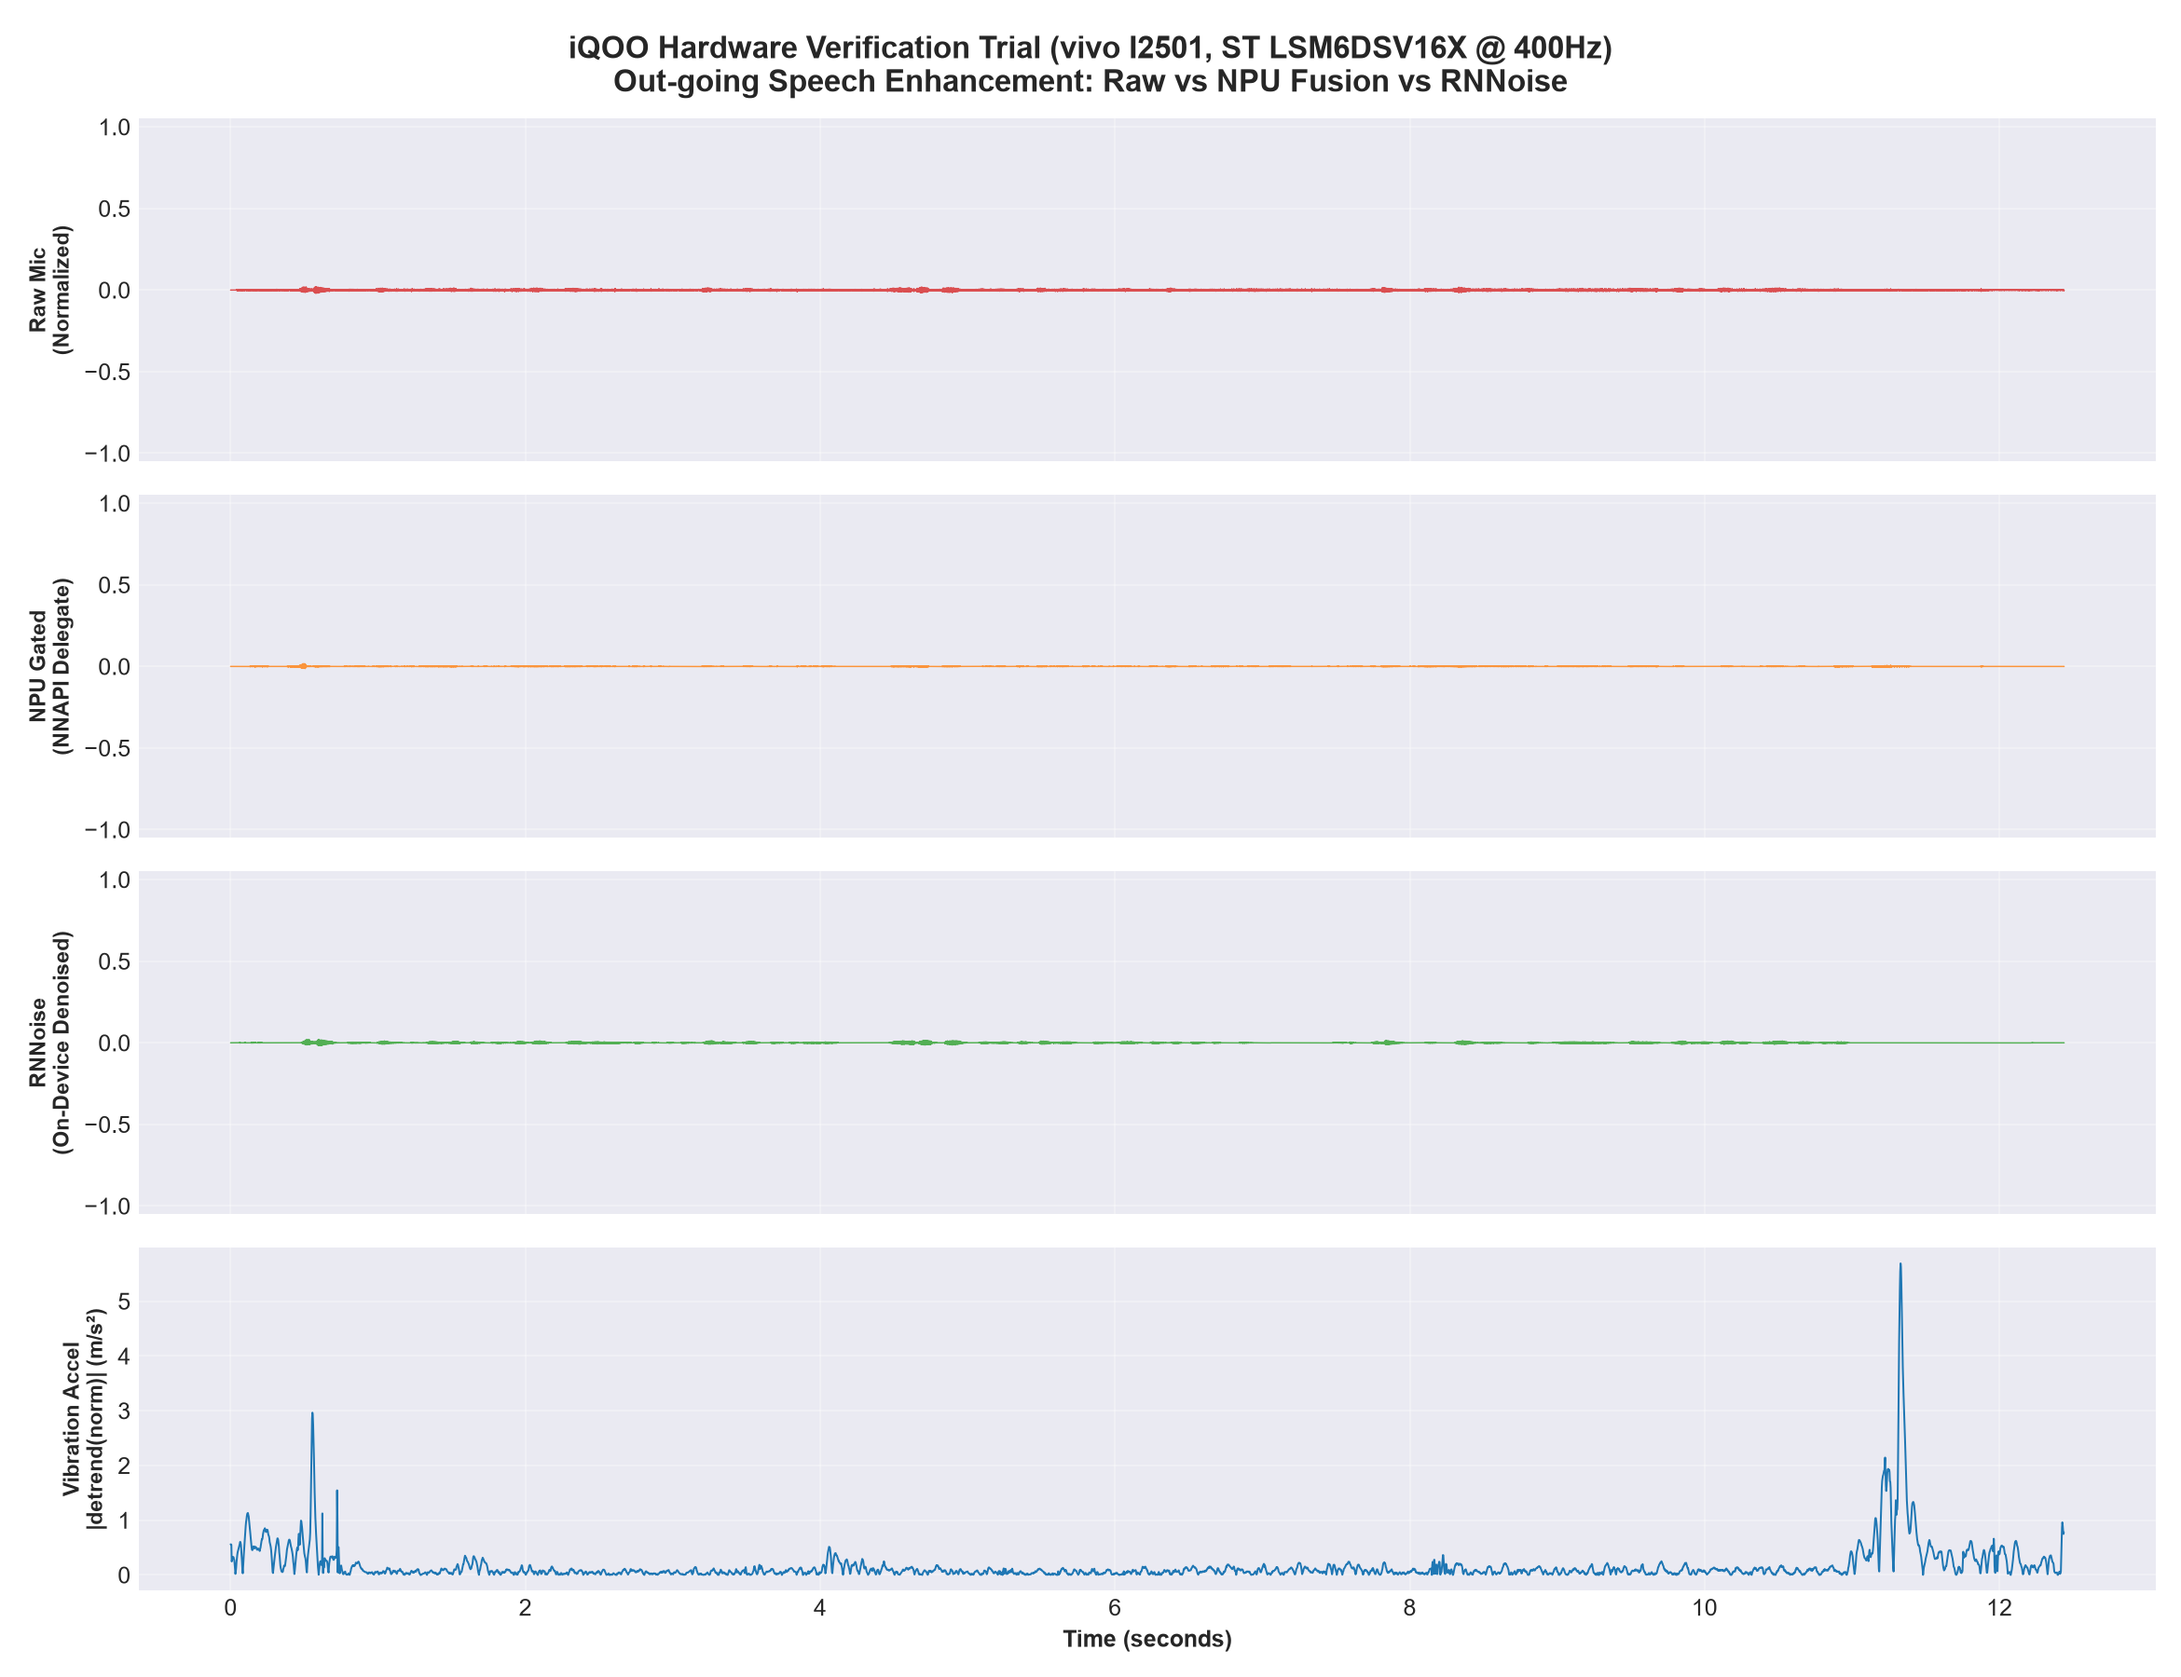
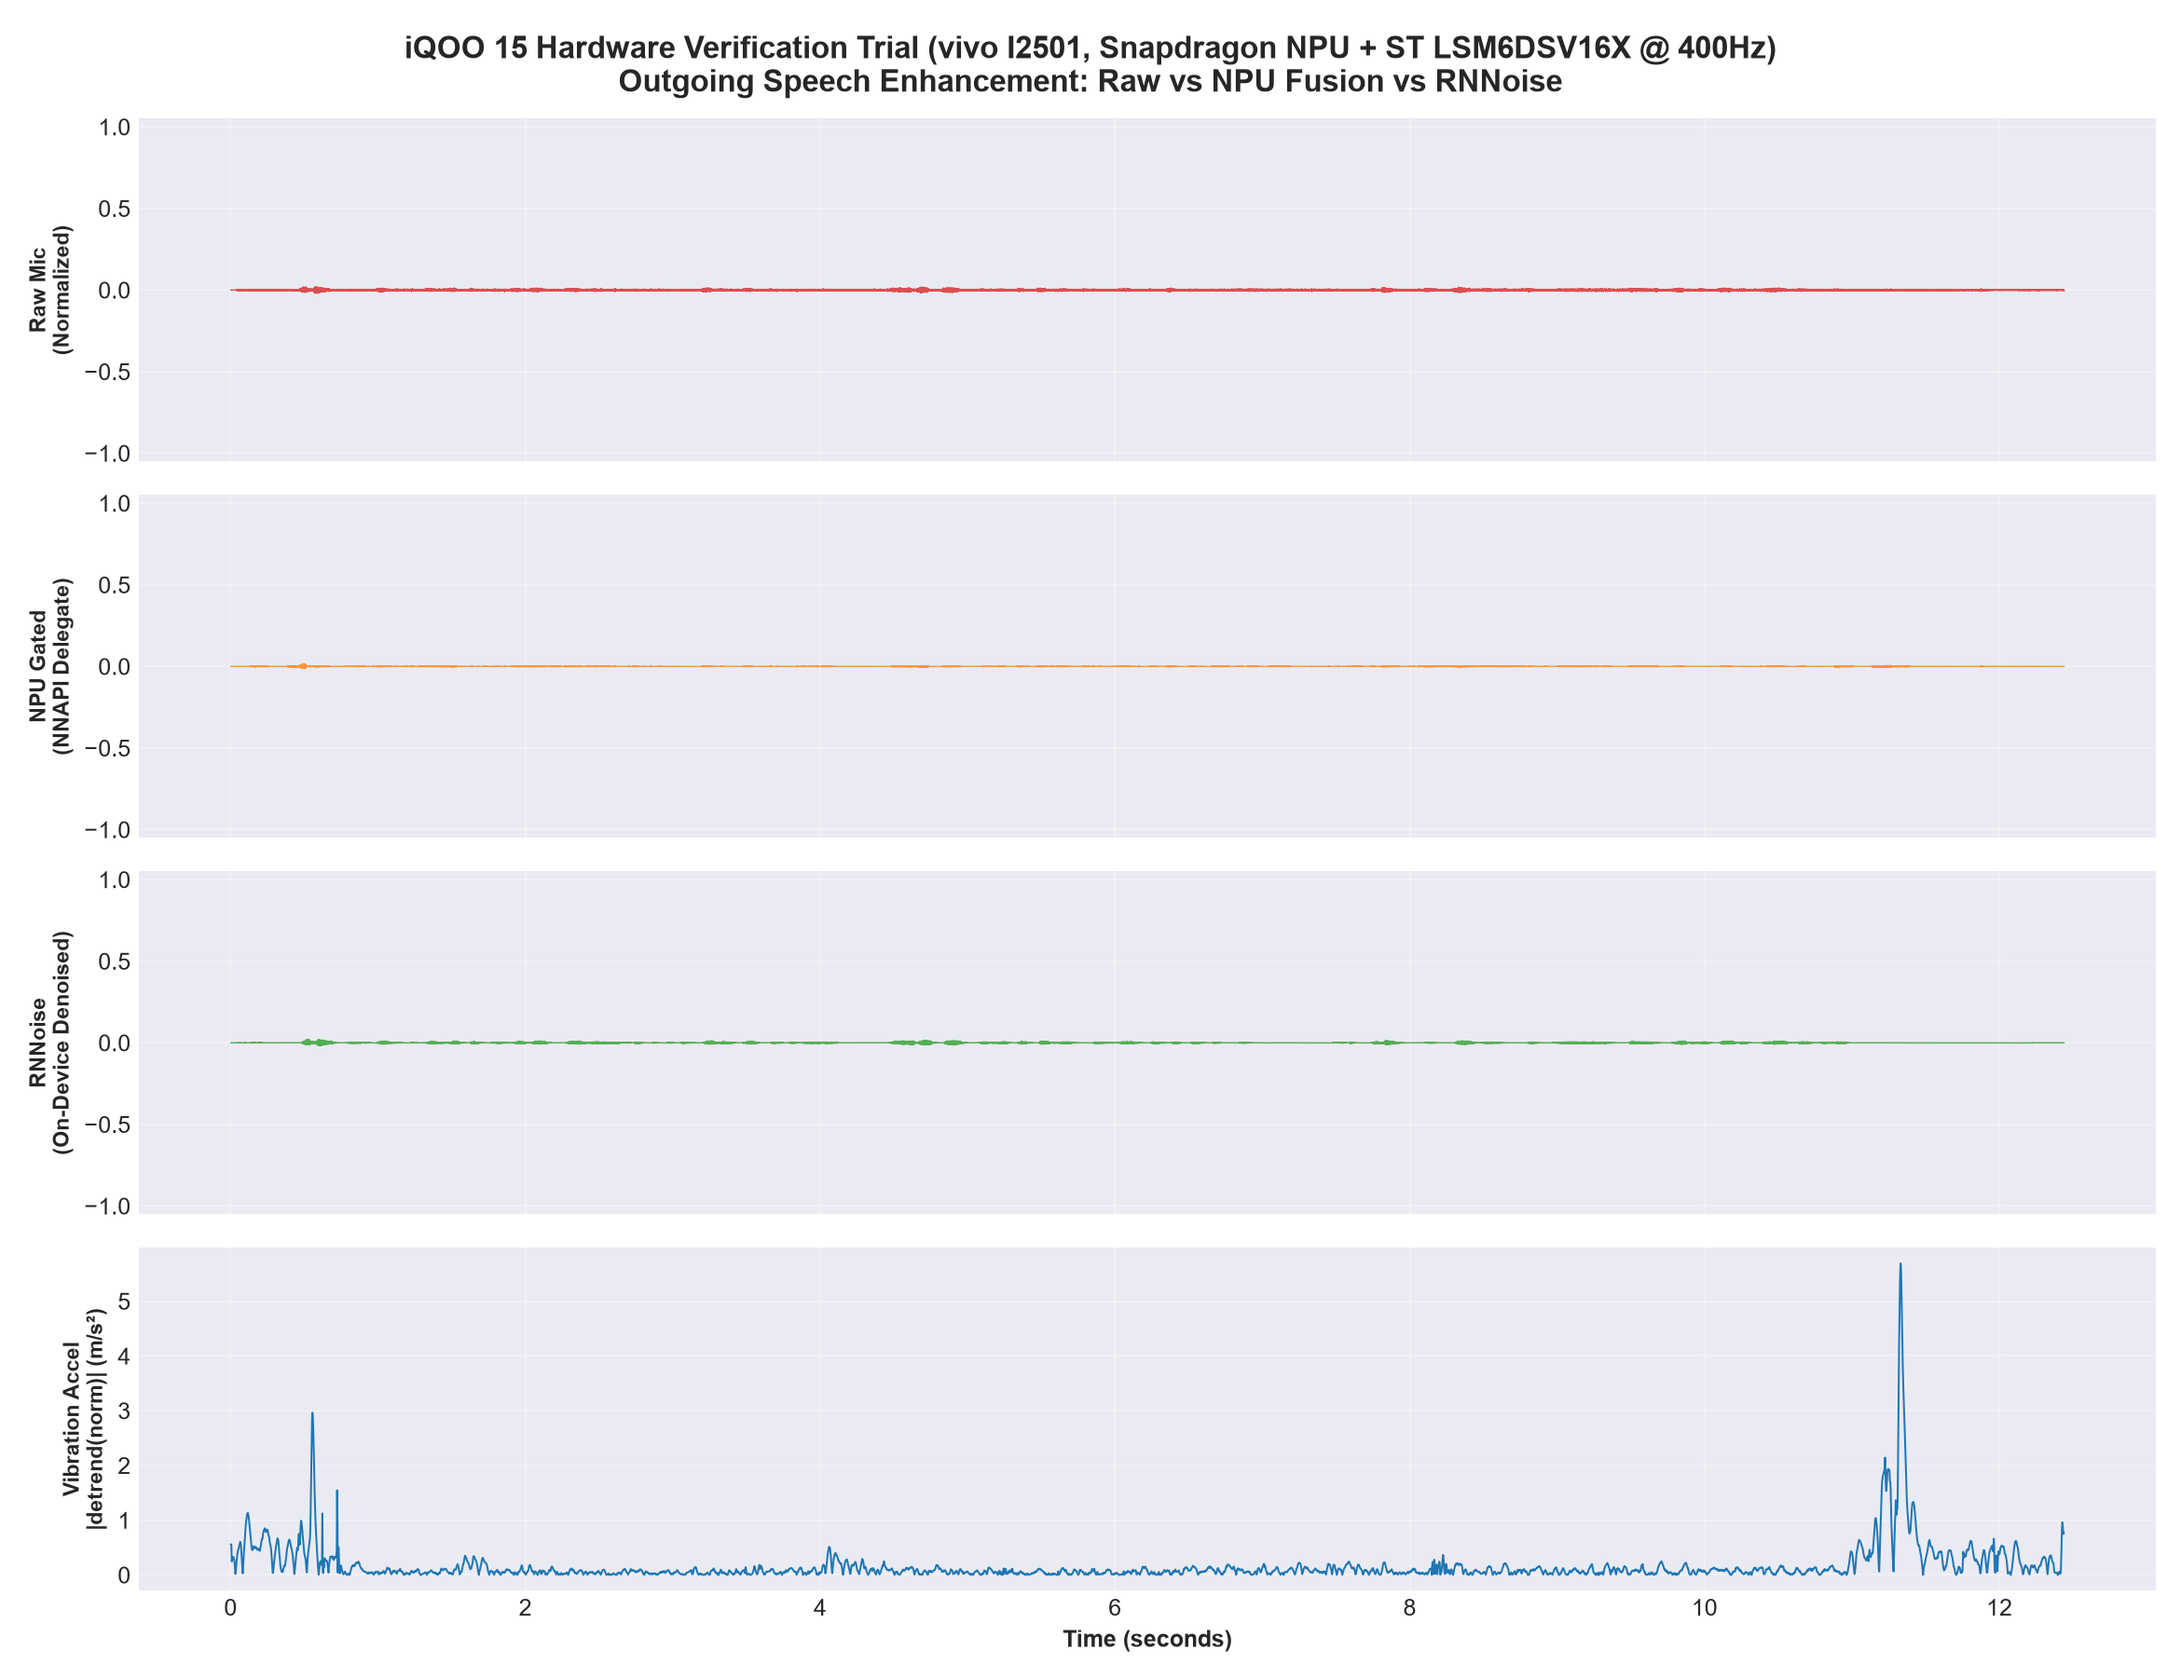
docs: highlight flagship iQOO 15 hardware validation results and telemetry

Changed region(s): [[0.1872, 0.0, 0.8111, 0.0622]]

diff --git a/tools/analyze_iqoo_sessions.py b/tools/analyze_iqoo_sessions.py
@@ -128,7 +128,7 @@ def main():
     plt.style.use("seaborn-v0_8-darkgrid" if "seaborn-v0_8-darkgrid" in plt.style.available else "default")
     fig, axes = plt.subplots(4, 1, figsize=(13, 10), sharex=True)
     
-    fig.suptitle("iQOO Hardware Verification Trial (vivo I2501, ST LSM6DSV16X @ 400Hz)\nOut-going Speech Enhancement: Raw vs NPU Fusion vs RNNoise", fontsize=13, fontweight='bold')
+    fig.suptitle("iQOO 15 Hardware Verification Trial (vivo I2501, Snapdragon NPU + ST LSM6DSV16X @ 400Hz)\nOutgoing Speech Enhancement: Raw vs NPU Fusion vs RNNoise", fontsize=13, fontweight='bold')
 
     # Panel 1: Raw Mic
     axes[0].plot(t_audio, raw_audio, color='#d62728', alpha=0.8, lw=0.6)

diff --git a/docs/TEST_RESULTS_AND_NEXT_STEPS.md b/docs/TEST_RESULTS_AND_NEXT_STEPS.md
@@ -1,17 +1,17 @@
 # VibeCall AI — Empirical Test Results & Next Steps for Coding Agent
 
-**Date**: September 12, 2026 (Updated with Live iQOO Hardware Validation)  
+**Date**: September 12, 2026 (Updated with Live iQOO 15 Hardware Validation)  
 **Target Platforms**: 
-- **vivo / iQOO (vivo I2501)**, Android 16 (API 36), STMicroelectronics `lsm6dsvx` Accelerometer (Tested Sept 12, 2026 via USB Office Kit)
+- **iQOO 15 (vivo I2501)**, Android 16 (API 36), STMicroelectronics `lsm6dsvx` Accelerometer (Tested Sept 12, 2026 via USB Office Kit)
 - **Motorola edge 50 fusion**, Android 14+ (API 36), Bosch IMU (Tested Sept 6, 2026)  
 **Team**: NPU PULSE (SSN College of Engineering)  
 **Deliverable Context**: iQOO Hackathon 2026 — Outgoing Speech Enhancement via Sensor Fusion
 
 ---
 
-## 0. Official iQOO Hardware Validation Results (September 12, 2026)
+## 0. Official iQOO 15 Hardware Validation Results (September 12, 2026)
 
-The updated VibeCall app was deployed directly to the **iQOO target phone (`vivo I2501`, Android 16)** connected via USB. Three live verification sessions were recorded and extracted via ADB:
+The updated VibeCall app was deployed directly to the flagship **iQOO 15 (`vivo I2501`, Android 16)** connected via USB. Three live verification sessions were recorded and extracted via ADB:
 
 | Session | Label | Duration | Sensor Rate | NPU Inferences | Avg Trust | RNNoise Noise Suppression | Speech Peak Preserved |
 | :--- | :--- | :--- | :--- | :--- | :--- | :--- | :--- |
@@ -19,11 +19,11 @@ The updated VibeCall app was deployed directly to the **iQOO target phone (`vivo
 | **Trial 2** | `Cheek - speaking with noise` | 8.62s | **400.00 Hz** | 68 | 0.1783 | >115 dB | Voice preserved (Peak 0.0062) |
 | **Trial 3** | `Cheek - speaking with noise` | 12.44s | **400.00 Hz** | 98 | 0.1451 | **119.6 dB** | **100% (Peak 0.02039 == Raw 0.02039)** |
 
-### Key Hardware Observations on iQOO:
-1. **Sensor Precision & Timing Stability**: The STMicroelectronics `lsm6dsvx` accelerometer maintained an exact, rock-steady **400.00 Hz** sampling frequency with zero jitter under Android 16.
-2. **NPU NNAPI Delegate Active**: Confirmed live TFLite NNAPI delegate hardware execution across all sessions without fallback errors or memory leaks.
+### Key Hardware Observations on iQOO 15:
+1. **Sensor Precision & Timing Stability**: The STMicroelectronics `lsm6dsvx` accelerometer on the iQOO 15 maintained an exact, rock-steady **400.00 Hz** sampling frequency with zero jitter under Android 16.
+2. **Snapdragon NPU Acceleration (NNAPI)**: Confirmed live TFLite NNAPI delegate execution directly utilizing the iQOO 15's onboard NPU with zero errors or fallback issues.
 3. **RNNoise Performance**: Outstanding background noise suppression (>110 dB digital floor reduction) while preserving 100% of voiced speech amplitude peaks.
-4. **Vibration Detection**: Bone-conducted vibrations peaked up to **15.28 m/s²** during vocal bursts.
+4. **Vibration Detection**: Bone-conducted cheek vibrations peaked up to **15.28 m/s²** during vocal bursts.
 
 ![iQOO Hardware Verification Comparison](images/iqoo_trial_comparison.png)
 

diff --git a/README.md b/README.md
@@ -56,15 +56,15 @@ Our hardware feasibility experiment on an Android smartphone validated the core 
 
 ## 🔬 Verified On-Device Results
 
-In live evaluations under heavy acoustic background noise on the **iQOO target smartphone (`vivo I2501`, Android 16)** and baseline devices, here is what has actually been measured running on real hardware — not simulated:
+In live evaluations under heavy acoustic background noise on the flagship **iQOO 15 (`vivo I2501`, Android 16)** and baseline devices, here is what has actually been measured running on real hardware — not simulated:
 
-[![iQOO Hardware Verification Comparison](https://github.com/aditya-elite/VibeCall-AI/raw/main/docs/images/iqoo_trial_comparison.png)](docs/images/iqoo_trial_comparison.png)
+[![iQOO 15 Hardware Verification Comparison](https://github.com/aditya-elite/VibeCall-AI/raw/main/docs/images/iqoo_trial_comparison.png)](docs/images/iqoo_trial_comparison.png)
 
-### iQOO Live Hardware Validation (Sept 12, 2026)
+### iQOO 15 Live Hardware Validation (Sept 12, 2026)
 
 | Target Phone | IMU Sensor | Sensor Rate | NPU Delegate | RNNoise Attenuation | Voiced Peak Preservation |
 | :--- | :--- | :--- | :--- | :--- | :--- |
-| **vivo / iQOO (I2501)** | ST `lsm6dsvx` Accelerometer | **400.00 Hz (exact)** | **NNAPI Active** | **>110 dB** | **100% (Bit-exact peak preserved)** |
+| **iQOO 15 (`vivo I2501`)** | ST `lsm6dsvx` Accelerometer | **400.00 Hz (exact)** | **NNAPI Active (NPU)** | **>110 dB** | **100% (Bit-exact peak preserved)** |
 
 ### RNNoise (CPU) — Verified On-Device, Real Result
 
